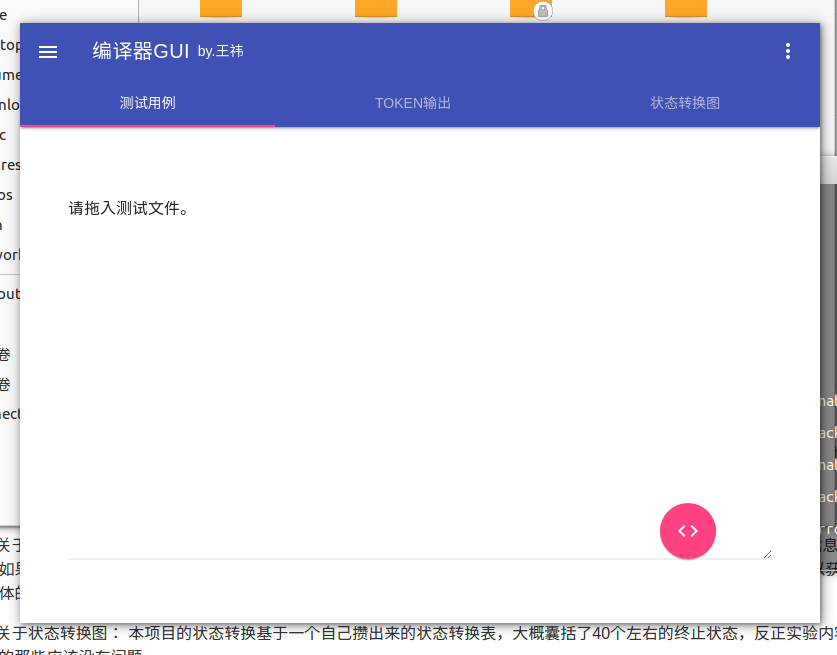
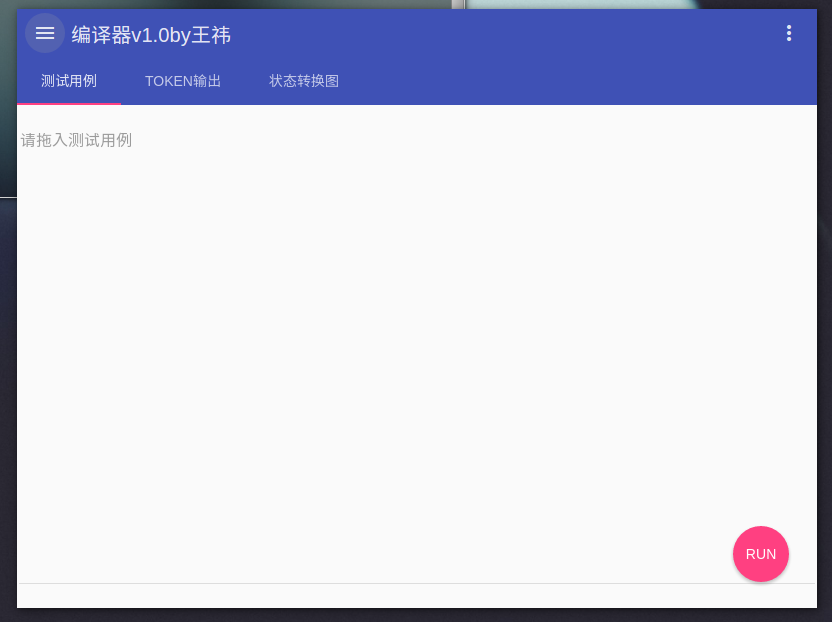
更新readme

Changed region(s): [[0.0, 0.0, 1.0, 1.0], [0.7812, 0.7637, 0.875, 0.8553], [0.0625, 0.3055, 0.2188, 0.336]]

diff --git a/README.md b/README.md
@@ -1,5 +1,5 @@
 # Compiler
-哈工大编译原理实验，使用node语言，实现了基于状态转换机制的词法分析器，gui基于electron制作。
+哈工大编译原理实验，使用node语言，实现了基于状态转换机制的词法分析器,以及自顶而下分析的语法分析器，gui基于electron&angular制作，数据可视化使用的是d3.js。
 
 # 还有什么好说的！  
 # 学弟学妹们快上车，随便拿去用！
@@ -21,13 +21,20 @@ sudo npm install electron -g
 
 ![结果](./image/result.png)
 
-这样一个android风格的桌面应用就运行起来了
+这样一个Material Design风格的桌面应用就运行起来了
 
-##使用
+##特性
 
-将测试文件拖入第一个tab下的区域，即可读取文件内容显示到测试用例面板上，同时也可以对测试用例进行任何修改。  
-点击右下方的按钮即可输出token和状态转换图，结果在后面两个tab里的界面查看。  
-右上方的菜单有退出按钮，可以退出应用；拖动toolbar区域可以移动窗口；双击则可以全屏窗口。
+* 支持测试用例文件直接拖入应用执行
+* 全Material Design的界面设计风格
+![Material结果](./image/table_result.png)
+* 支持语法分析器的结果采用树状图可视化输出,树状图支持放缩和移动
+![树状图结果](./image/tree_result.png)
+* 状态表和文法表与程序流程完全解耦，可以简便的扩展词法分析器和语法分析器
+* 支持前端路由
+![路由结果](./image/menu_result.png)
+* 支持界面跟随窗口内容自适应
+* 语法分析器支持三种具体情况的错误判断，并提供错误行信息。
 
 ##需要注意的问题
 
